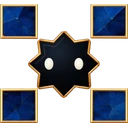
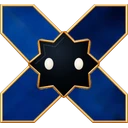
feat: the story shows the blue and the green each as one piece
The emblem splits the cobalt into four squares and the green into four
points, so on its own around Zel each layer read as scattered pieces. The
story now shows each as one joined piece: the blue as an X, notched where
the points come in, and the green as a diamond, the points joined from the
corner beside their tips and filled in up to Zel. Stacked, the crown over the
X and the X over the diamond, they show exactly the emblem's own pieces.

Each joined piece is glazed with one piece's glaze, smoothed and stretched,
with the pieces' own grain and fine crackle on top, and gets a whole rim. Once
the tile is whole the joined pieces give way to the emblem's own. The step
glyphs and the menu glyphs use the joined pieces; the hero and the assembled
emblem are unchanged.

diff --git a/src/components/Companion.tsx b/src/components/Companion.tsx
@@ -3,8 +3,10 @@ import { cn } from "@/lib/utils";
 import { useZelMotion } from "@/hooks/zel-motion";
 import layerCentre from "@/assets/layer-centre.webp";
 import layerCobalt from "@/assets/layer-cobalt.webp";
+import layerCobaltJoined from "@/assets/layer-cobalt-joined.webp";
 import layerCrown from "@/assets/layer-crown.webp";
 import layerPoints from "@/assets/layer-points.webp";
+import layerPointsJoined from "@/assets/layer-points-joined.webp";
 import layerWhole from "@/assets/layer-whole.webp";
 
 import { ZelFace, type Mood } from "./ZelFace";
@@ -28,9 +30,11 @@ let blinkSeed = 0;
 const nextBlinkPhase = () => (blinkSeed = (blinkSeed + 0.6180339887) % 1);
 
 export type Layer = "centre" | "crown" | "cobalt" | "points";
-export const layers: { name: Layer; src: string }[] = [
-  { name: "points", src: layerPoints },
-  { name: "cobalt", src: layerCobalt },
+/** Each layer as the emblem splits it and, where that is four pieces, the same layer
+ *  joined into one, for showing it on its own. */
+export const layers: { name: Layer; src: string; joined?: string }[] = [
+  { name: "points", src: layerPoints, joined: layerPointsJoined },
+  { name: "cobalt", src: layerCobalt, joined: layerCobaltJoined },
   { name: "crown", src: layerCrown },
   { name: "centre", src: layerCentre },
 ];
@@ -42,6 +46,7 @@ export function Companion({
   lively = false,
   motionDelay = 0,
   shadow,
+  joined = false,
 }: {
   mood: Mood;
   className?: string;
@@ -53,6 +58,8 @@ export function Companion({
   motionDelay?: number;
   /** A soft shadow under Zel, sized for where it sits (.zel-shadow-* in styles.css). */
   shadow?: "hero" | "tile";
+  /** Also lay each layer's joined piece, for the story to show a layer on its own (.zel-joined in styles.css). */
+  joined?: boolean;
 }) {
   const root = useRef<HTMLDivElement>(null);
   useZelMotion(root, lively, motionDelay);
@@ -121,10 +128,11 @@ export function Companion({
       {shadow && <img src={layerWhole} width="960" height="960" alt="" draggable={false} className={`zel-shadow zel-shadow-${shadow} absolute inset-0 size-full`} />}
       {/* Square box holding the stacked emblem layers. */}
       <div className="relative aspect-square w-full">
-        {layers.map(({ name, src }) => (
+        {layers.map(({ name, src, joined: whole }) => (
           <div key={name} className={`zel-layer layer-${name} absolute inset-0 size-full`}>
-            <div className="zel-piece size-full" data-zel-motion={name}>
-              <img src={src} width="960" height="960" alt="" draggable={false} className="size-full" />
+            <div className="zel-piece relative size-full" data-zel-motion={name}>
+              <img src={src} width="960" height="960" alt="" draggable={false} className={cn("size-full", joined && whole && "zel-split")} />
+              {joined && whole && <img src={whole} width="960" height="960" alt="" draggable={false} className="zel-joined absolute inset-0 size-full" />}
             </div>
           </div>
         ))}

diff --git a/src/components/Trio.tsx b/src/components/Trio.tsx
@@ -12,7 +12,9 @@ import glyphPoints from "@/assets/glyph-points.webp";
  *   crown  (ivory kites, closest to Zel)  → chat
  *   cobalt (blue corner squares)          → the harness manager, for building software
  *   points (outer green points)           → the personal agent
- * The scroll story shows one layer around Zel at a time, then all of them. Motion is
+ * The scroll story shows one layer around Zel at a time, then all of them. A layer
+ * the emblem splits into four shows on its own as one joined piece, and splits into
+ * the emblem's pieces once the tile is whole. Motion is
  * CSS only; without JS or with reduced motion, the emblem is simply whole.
  */
 export type Piece = Exclude<Layer, "centre">;
@@ -20,8 +22,8 @@ export const pieces: Piece[] = ["crown", "cobalt", "points"];
 
 /** One layer of the emblem, small, to name it in labels and lists. */
 export function LayerGlyph({ layer, className }: { layer: Piece; className?: string }) {
-  const { src } = layers.find(({ name }) => name === layer)!;
-  return <img src={src} alt="" width="960" height="960" className={cn("size-5 shrink-0", className)} draggable={false} />;
+  const { src, joined } = layers.find(({ name }) => name === layer)!;
+  return <img src={joined ?? src} alt="" width="960" height="960" className={cn("size-5 shrink-0", className)} draggable={false} />;
 }
 
 const glyphs: Record<Piece, string> = { crown: glyphCrown, cobalt: glyphCobalt, points: glyphPoints };
@@ -82,7 +84,7 @@ export function Trio({
       onPointerLeave={() => setHover(undefined)}
       onClick={(event) => { const piece = pieceAt(event); if (piece) onPick?.(piece); }}
     >
-      <Companion mood={mood} follow alt={t.zel.alt} shadow="tile" className="size-full" />
+      <Companion mood={mood} follow joined alt={t.zel.alt} shadow="tile" className="size-full" />
     </div>
   );
 }

diff --git a/src/styles.css b/src/styles.css
@@ -233,6 +233,12 @@
   .tile-scroll.show-cobalt .layer-cobalt,
   .tile-scroll.show-points .layer-points,
   .tile-scroll.show-all .zel-layer:not(.layer-centre) { opacity: 1; scale: 1; }
+  /* A layer on its own is its joined piece (Companion.tsx); the whole tile is made of
+     the emblem's own pieces, so the joined one gives way to them as it lands. */
+  .zel-layer .zel-piece > img:is(.zel-split, .zel-joined) { transition: scale 0.6s cubic-bezier(0.3, 1.4, 0.5, 1), opacity 0.4s ease; }
+  .zel-joined { opacity: 0; }
+  .tile-scroll:not(.show-all) .zel-joined { opacity: 1; }
+  .tile-scroll:not(.show-all) .zel-split { opacity: 0; }
   /* The assembled emblem keeps its drawn rims: it covers the layers once they have
      all landed, and gives way to them as soon as one moves. */
   .zel-whole { transition: opacity 0.3s ease; }

diff --git a/openspec/design/brand-assets.md b/openspec/design/brand-assets.md
@@ -22,8 +22,10 @@ are not vector originals. The source moodboard is not shipped in the website; ev
   by `scripts/build-brand.mjs` from the images above, so it follows any
   change to the emblem, Zel's face or the wordmark.
 - Landing: `src/assets/layer-{centre,crown,cobalt,points}.webp` (the
-  emblem's colour layers), `glyph-{crown,cobalt,points}.webp` (each layer with
-  Zel at its centre), `emblem.webp`, `zel-mark.webp` (Zel for the header's
+  emblem's colour layers), `layer-{cobalt,points}-joined.webp` (the blue and the
+  green each joined into one piece, an X and a diamond, for the story to show on
+  their own), `glyph-{crown,cobalt,points}.webp` (each layer, joined where it has
+  one, with Zel at its centre), `emblem.webp`, `zel-mark.webp` (Zel for the header's
   logo, beside the wordmark) and `public/favicon.png`.
 - `public/brand/zellige-ceramic-source.png`: the approved ceramic mosaic the
   landing's texture (`src/assets/ceramic.webp`) is cut from.
